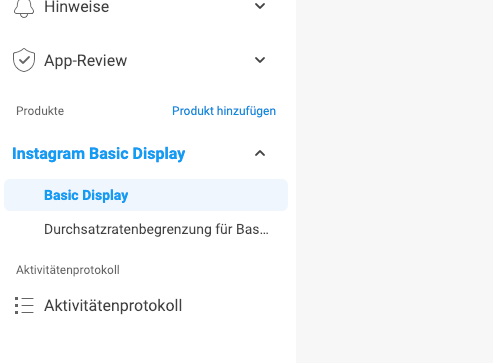
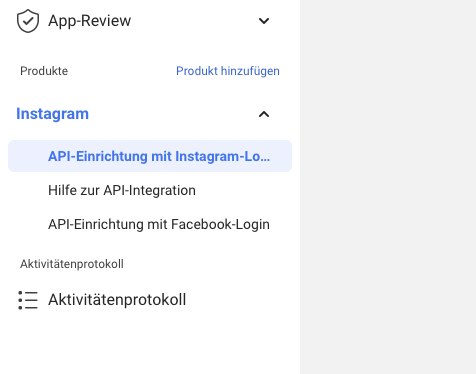
Updated readme

diff --git a/README.md b/README.md
@@ -46,7 +46,7 @@ INSTAGRAM_ACCESS_TOKEN=''
 
 If both variables are given, the yml variable will be used.
 
-Furthermore you can set a default size:
+Furthermore, you can set a default size:
 ```yml
 Pixelpoems\InstagramFeed\Services\InstagramService:
   default_post_size: 250
@@ -94,63 +94,41 @@ Pixelpoems\InstagramFeed\Services\InstagramService:
 ## External Requirement Setup
 ### Meta Developer App
 To use the **Instagram API** you have to create a **Meta App** first.
-1. Go to https://developers.facebook.com/apps/create/ and select Type.
+1. Go to https://developers.facebook.com/apps/create/ and select Type (Use "Business").
 
 ![external-requirements-meta-1.png](resources%2Fexternal-requirements-meta-1.png)
 
-
 2. Provide your App details (Name and contact mail).
-3. Select "Instagram Basic Display" from the product list.
+3. Select "Instagram" from the product list.
 
 ![external-requirements-meta-3.png](resources%2Fexternal-requirements-meta-3.png)
 
+### Instagram
+https://developers.facebook.com/docs/instagram-platform/instagram-api-with-instagram-login/
 
-4. Scroll down until you see an alert and click on Settings to update your App settings.
+1. Add Test User. Open "Instagram > App-Rollen > Rollen" on the product overview (left menu).
+![external-requirements-test-user.png](resources%2Fexternal-requirements-test-user.png)
+- Add User
+- Select Instagram-Tester
+- Search for your Instagram account and add it as tester.
+- Go to your Instagram account settings page > App and Websites > Tester invites, accept the invite.
+  [https://www.instagram.com/accounts/manage_access/](https://www.instagram.com/accounts/manage_access/)
 
-![external-requirements-meta-4.png](resources%2Fexternal-requirements-meta-4.png)
-
-5. Select the platform "Website".  (Scroll down to bottom to "Add Platform")
-
-![external-requirements-meta-5.png](resources%2Fexternal-requirements-meta-5.png)
-
-6. Enter your Site URL.
-
-![external-requirements-meta-6.png](resources%2Fexternal-requirements-meta-6.png)
-
-### Instagram Basic Display API
-https://developers.facebook.com/docs/instagram-basic-display-api
-1. Open "Instagram Basic Display > Basic Display" on the product overview (left menu).
-
-![external-requirements-idapi-1.png](resources%2Fexternal-requirements-idapi-1.png)
-
-2. Click on "Create New App".
-
-3. Fill OAuth Redirect, Deauthorize Callback and Data Deletion Request URL with your site URL.
 
 ![external-requirements-idapi-3.png](resources%2Fexternal-requirements-idapi-3.png)
 
-4. Add Instagram testers.
 
-![external-requirements-idapi-4.png](resources%2Fexternal-requirements-idapi-4.png)
+2. Back to "Products > Instagram > API-Einrichtung mit Instagram-Login" on the product overview (left menu).
+   ![external-requirements-idapi-1.png](resources%2Fexternal-requirements-idapi-1.png)
 
-![external-requirements-idapi-4-2.png](resources%2Fexternal-requirements-idapi-4-2.png)
+- Click on 1. User Token Generator, your Instagram account should appear in the list, then click "Generate Token" button for authorize and generate long-lived access token for Instagram. And copy the token.
 
-5. Enter your Instagram username and select your profile.
-
-![external-requirements-idapi-5.png](resources%2Fexternal-requirements-idapi-5.png)
-
-6. Go to your Instagram account settings page > App and Websites > Tester invites, accept the invite.
-   [https://www.instagram.com/accounts/manage_access/](https://www.instagram.com/accounts/manage_access/)
-
-7. Back to Products > Instagram > Basic Display > User Token Generator, you Instagram account should appear in the list, then click Generate Token button for authorize and generate long-lived access token for Instagram.
-
-![external-requirements-idapi-7.png](resources%2Fexternal-requirements-idapi-7.png)
-
-9. Login and authorize the App.
-9. Copy generated Token.
-10. Use this token within your yml config or your .env configuration (see [Configuration](#configuration)).
+3. Use this token within your yml config or your .env configuration or the yml setup (see [Configuration](#configuration)).
 
 
 ## Reporting Issues
 Please [create an issue](https://github.com/pixelpoems/silverstripe-instagram-feed/issues) for any bugs you've found, or
 features you're missing.
+
+## ToDos
+- [ ] Add option to set default_post_size as square
